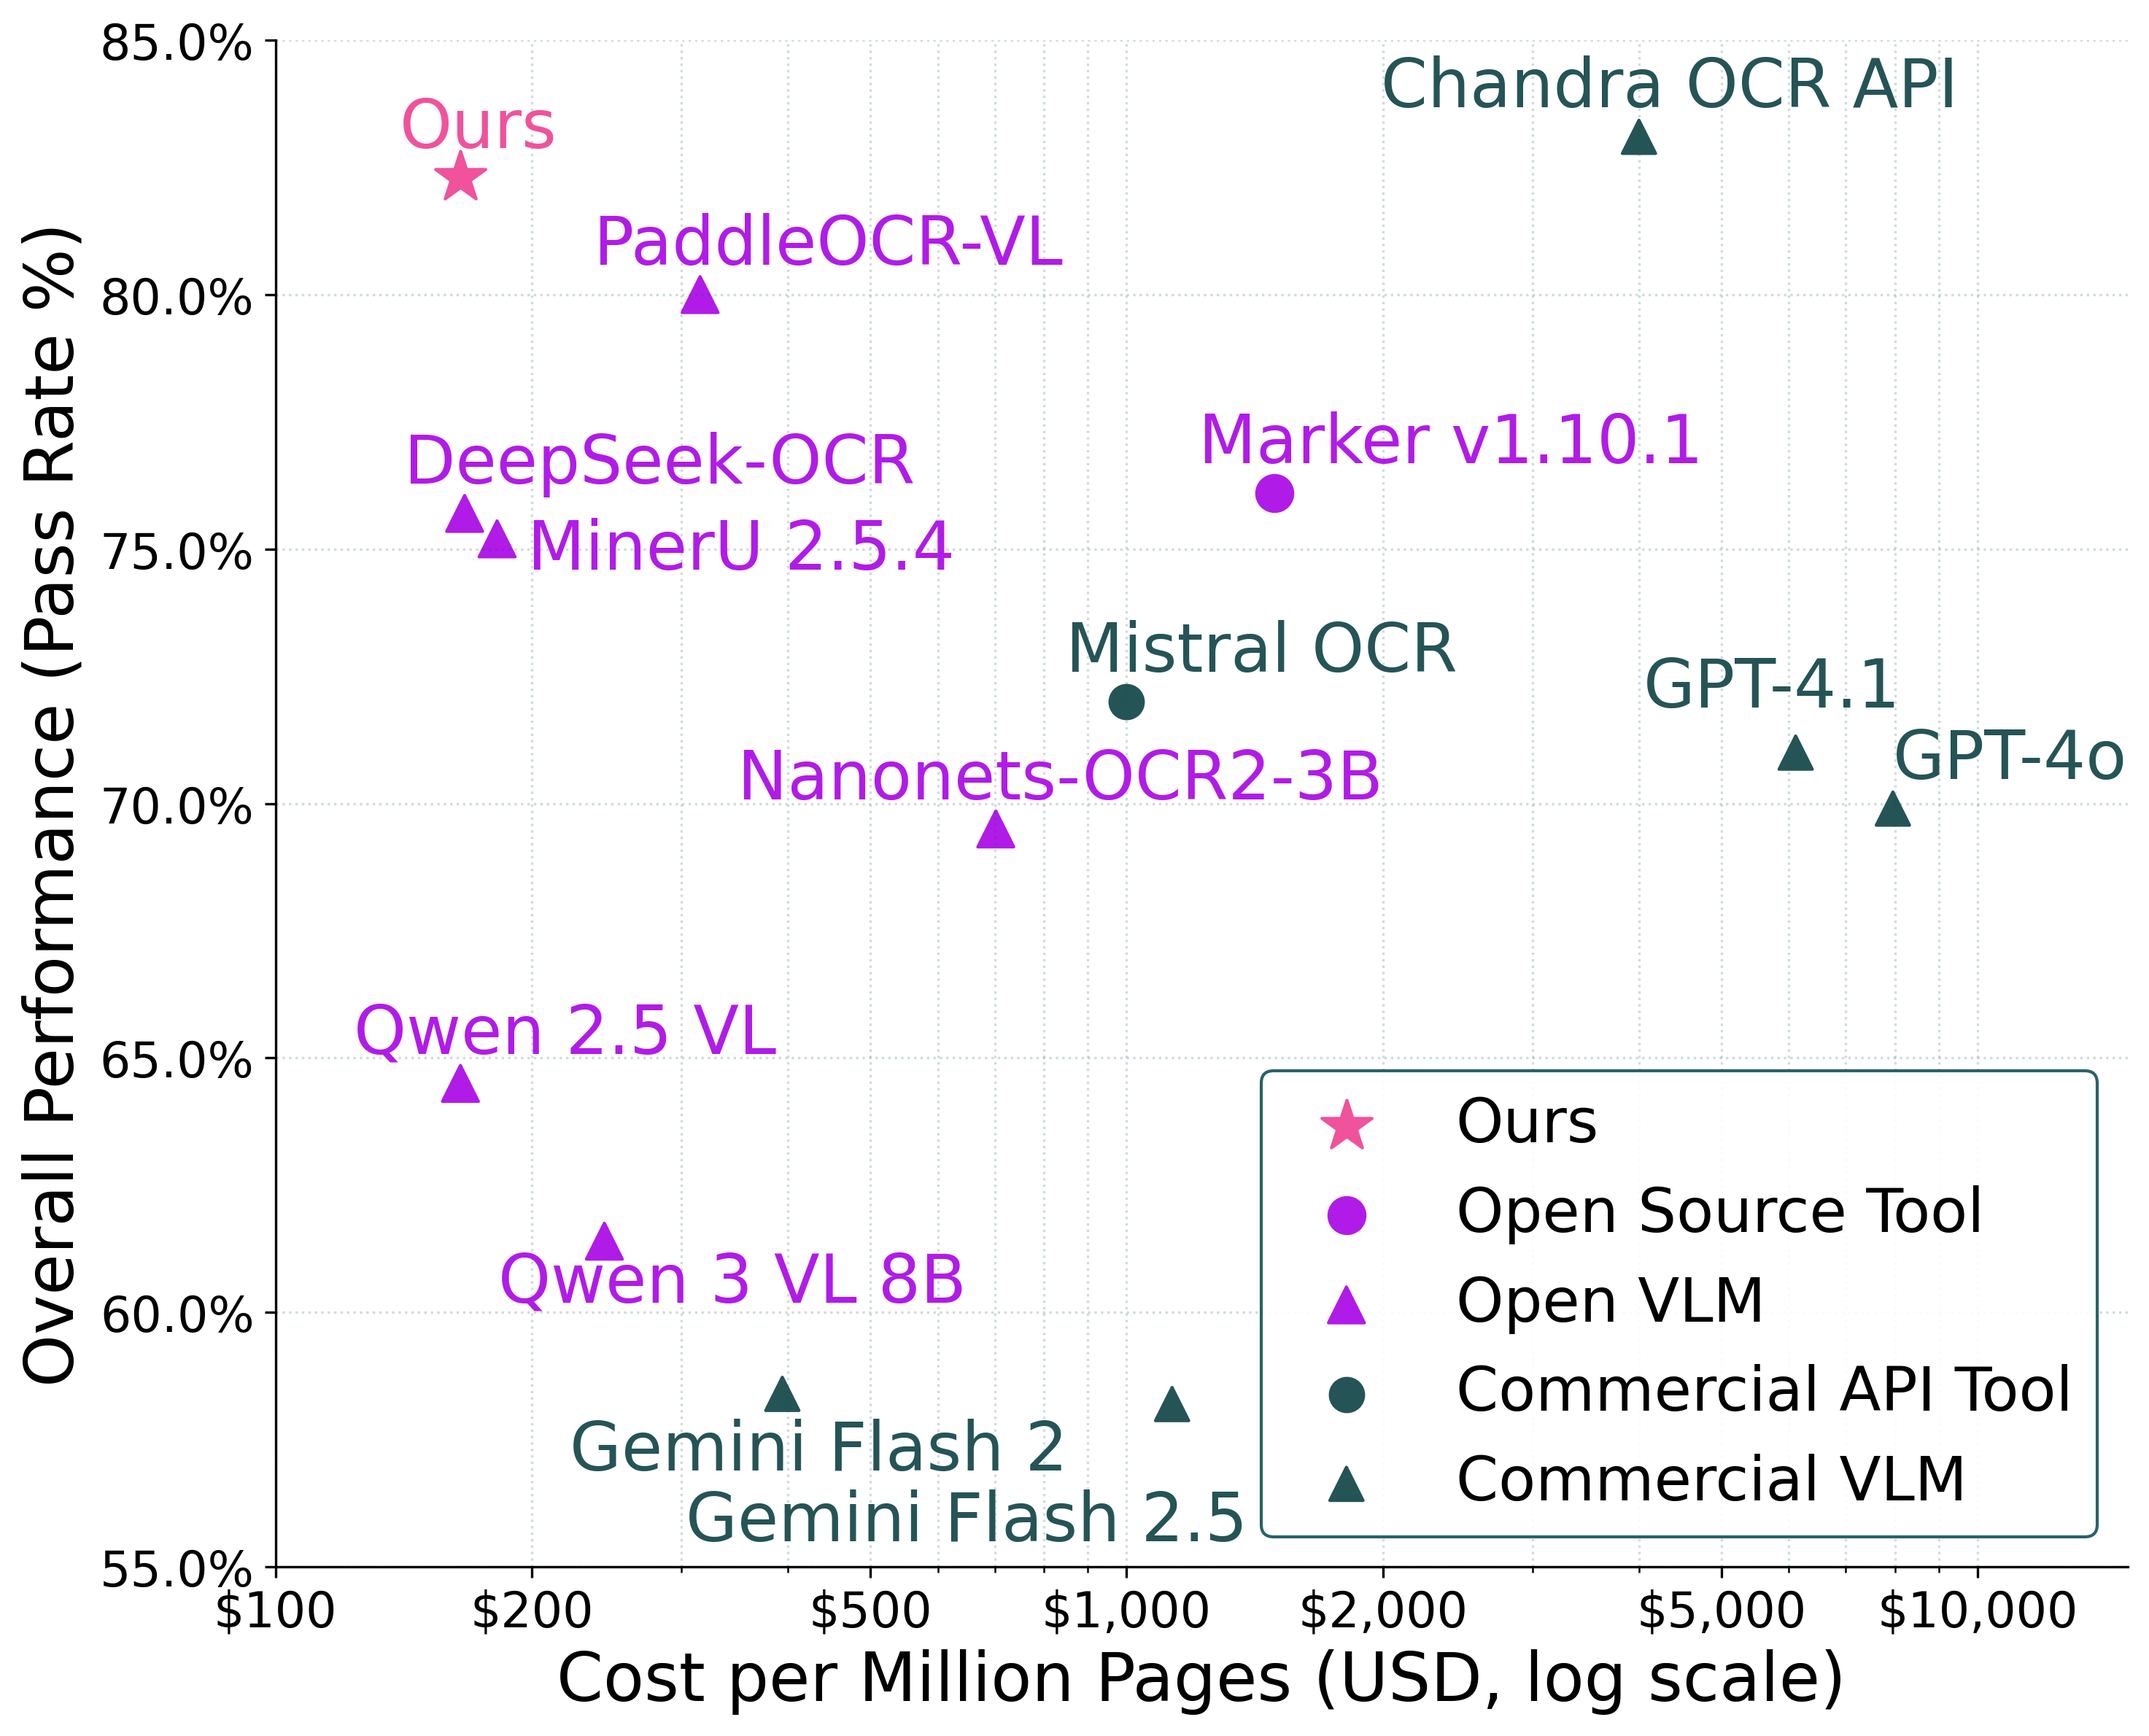
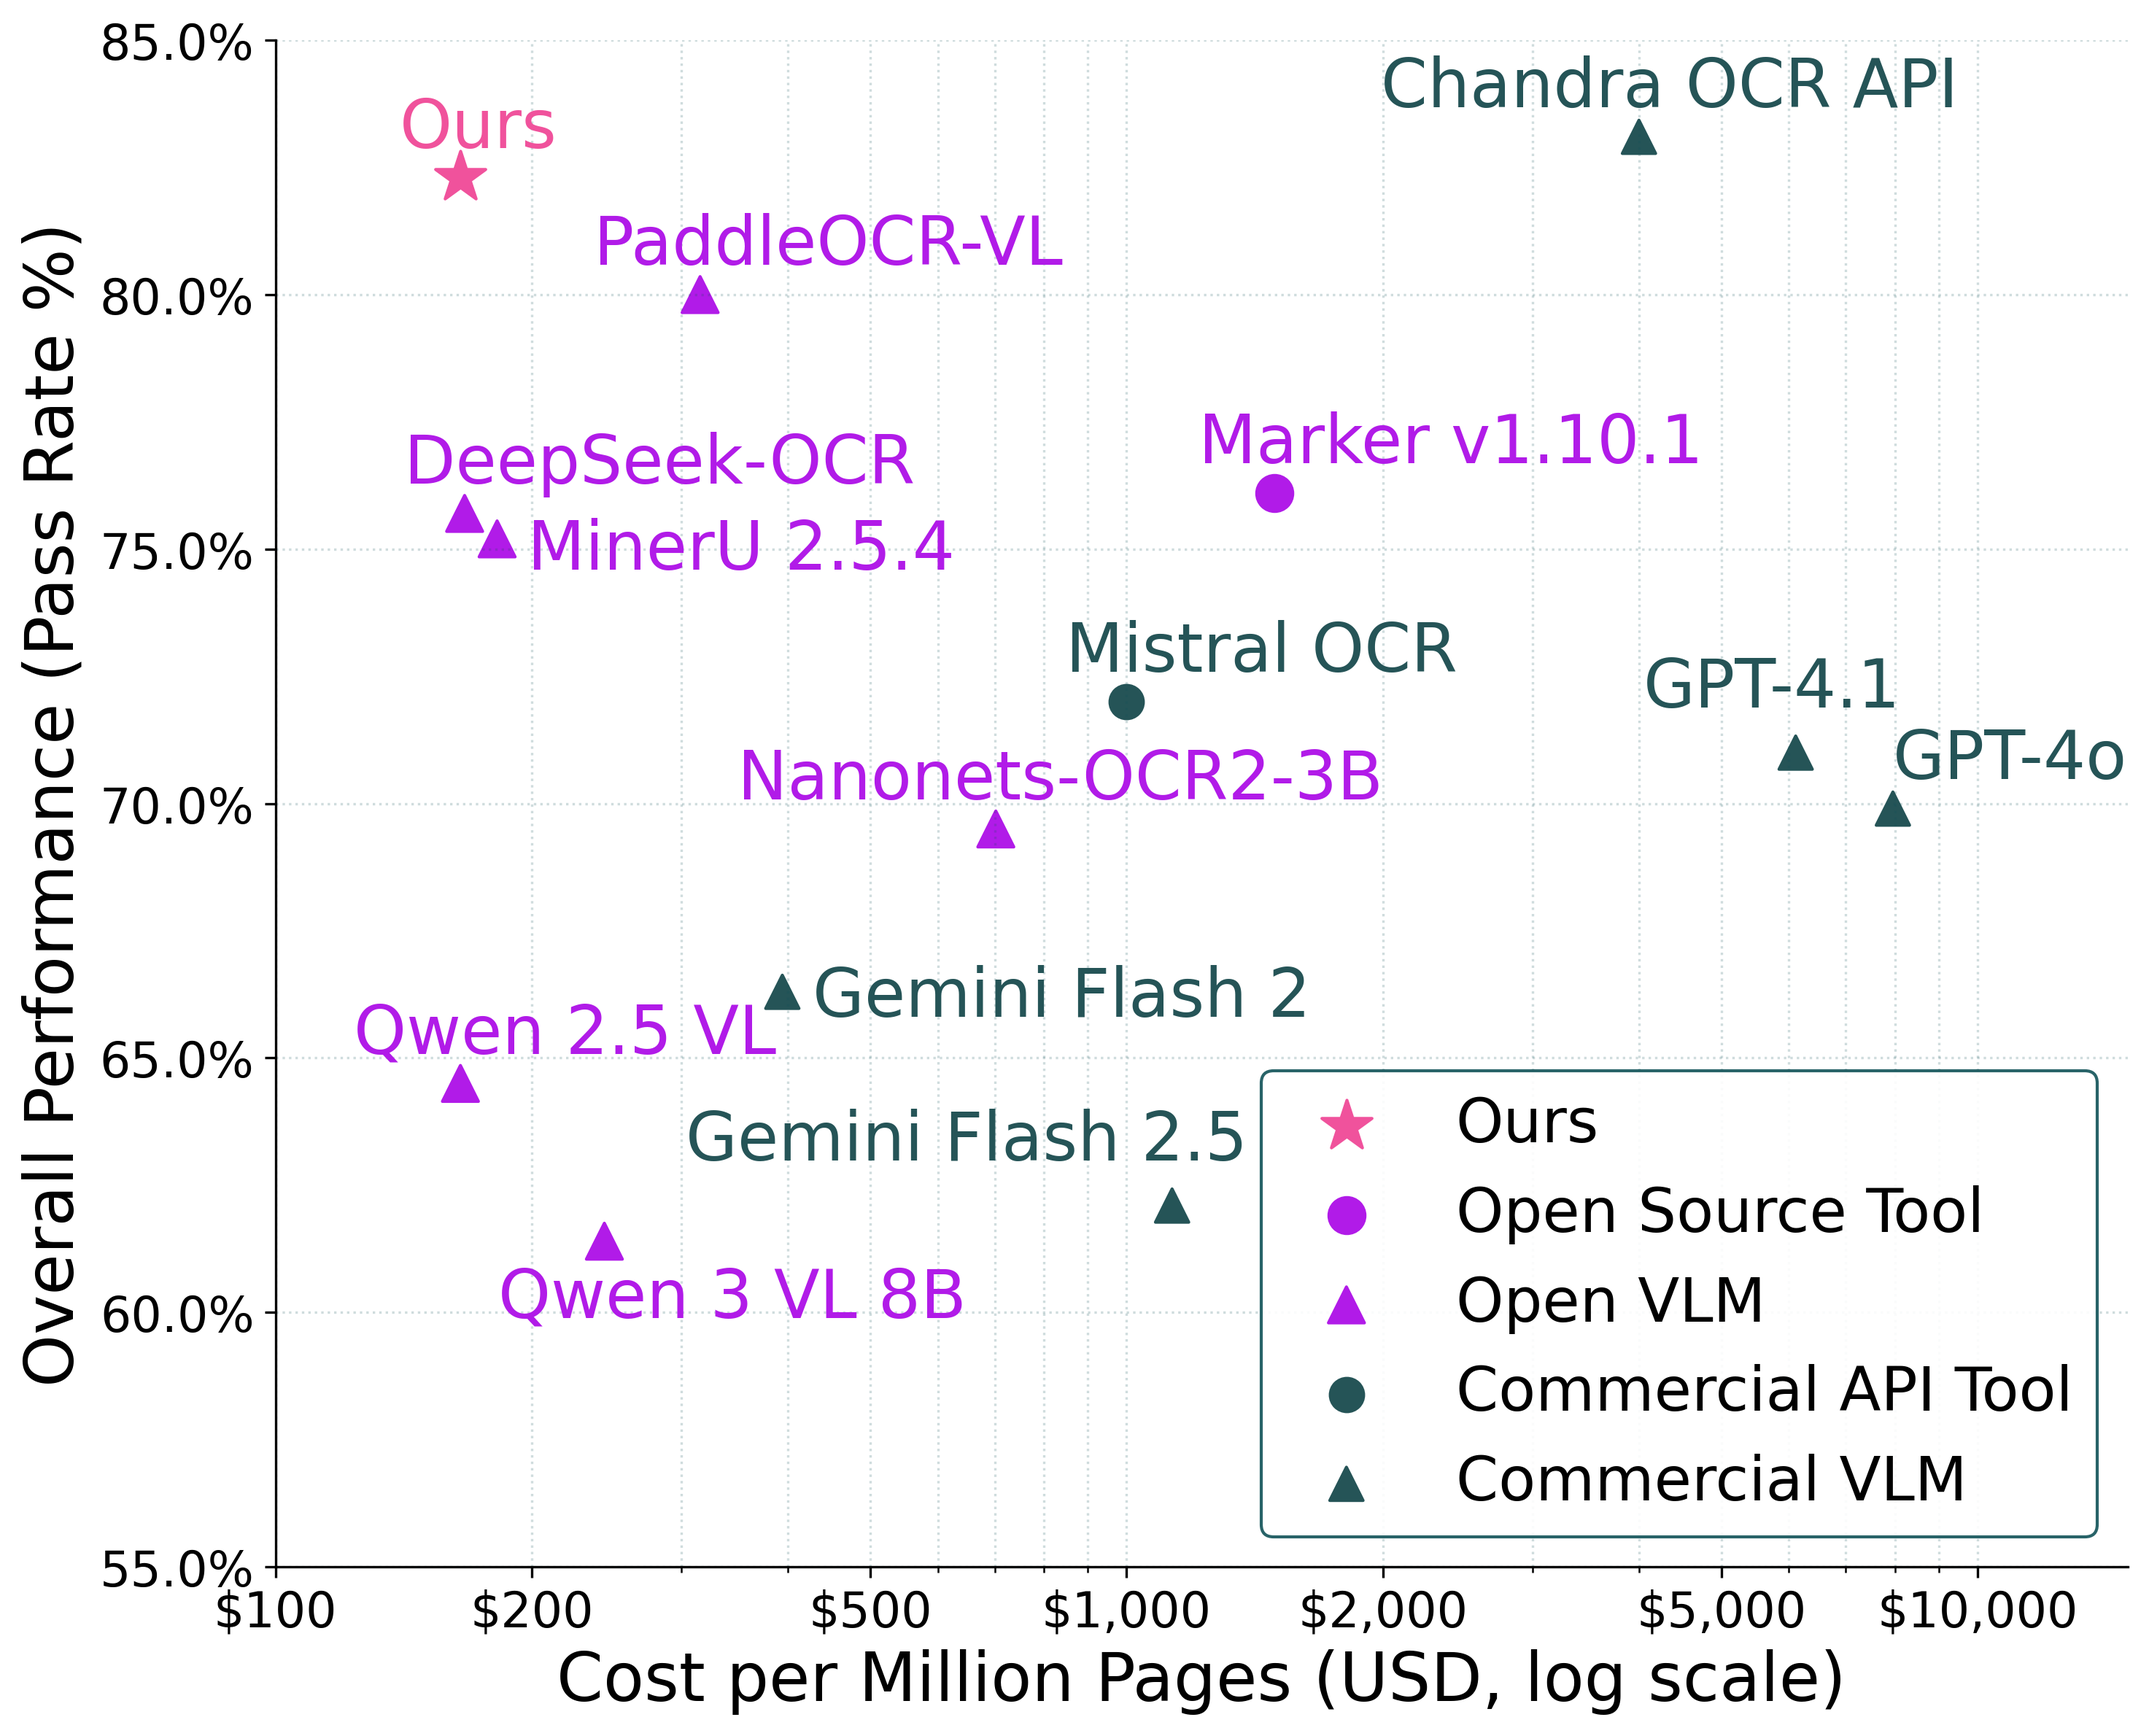
Plots

diff --git a/scripts/plots/pareto_plot.py b/scripts/plots/pareto_plot.py
@@ -140,8 +140,8 @@ MODEL_DATA = [
     ModelData(name="GPT-4.1", cost_per_million=6112, performance=71.0, category="Commercial VLM", label_offset=(-50, 15)),
     ModelData(name="Mistral OCR", cost_per_million=1000, performance=72.0, category="Commercial API Tool", label_offset=(-20, 10)),
 
-    ModelData(name="Gemini Flash 2", cost_per_million=394, performance=58.4, category="Commercial VLM", label_offset=(-70, -25)),
-    ModelData(name="Gemini Flash 2.5", cost_per_million=1131, performance=58.2, category="Commercial VLM", label_offset=(-160, -45)),
+    ModelData(name="Gemini Flash 2", cost_per_million=394, performance=66.3, category="Commercial VLM", label_offset=(10, -8)),
+    ModelData(name="Gemini Flash 2.5", cost_per_million=1131, performance=62.1, category="Commercial VLM", label_offset=(-160, 15)),
   
     # Perf data from paper https://arxiv.org/pdf/2509.22186
     ModelData(
@@ -153,7 +153,7 @@ MODEL_DATA = [
     #ModelData(name="Qwen 2 VL", cost_per_million=???, performance=61.3, category="Open VLM", label_offset=(-35, 10)),
     ModelData(name="Qwen 2.5 VL", cost_per_million=cost_per_million_by_page("h100", 10000 / (36 * 60 + 47)), performance=64.5, category="Open VLM", label_offset=(-35, 10)),
     # Using original olmocr cost, but scaling it by 3100/2100 which is the tokens/second rate difference that we see on H100 inference
-    ModelData(name="Qwen 3 VL 8B", cost_per_million=cost_per_million_by_page("h100", 10000 / (36 * 60 + 47)) * (3100/2100), performance=61.4, category="Open VLM", label_offset=(-35, -20)),
+    ModelData(name="Qwen 3 VL 8B", cost_per_million=cost_per_million_by_page("h100", 10000 / (36 * 60 + 47)) * (3100/2100), performance=61.4, category="Open VLM", label_offset=(-35, -25)),
 
     # Perf data from https://arxiv.org/pdf/2509.22186
     ModelData(name="Nanonets-OCR2-3B", cost_per_million=cost_per_million_by_page("a100", 0.55), performance=69.5, category="Open VLM", label_offset=(-85, 10)),
